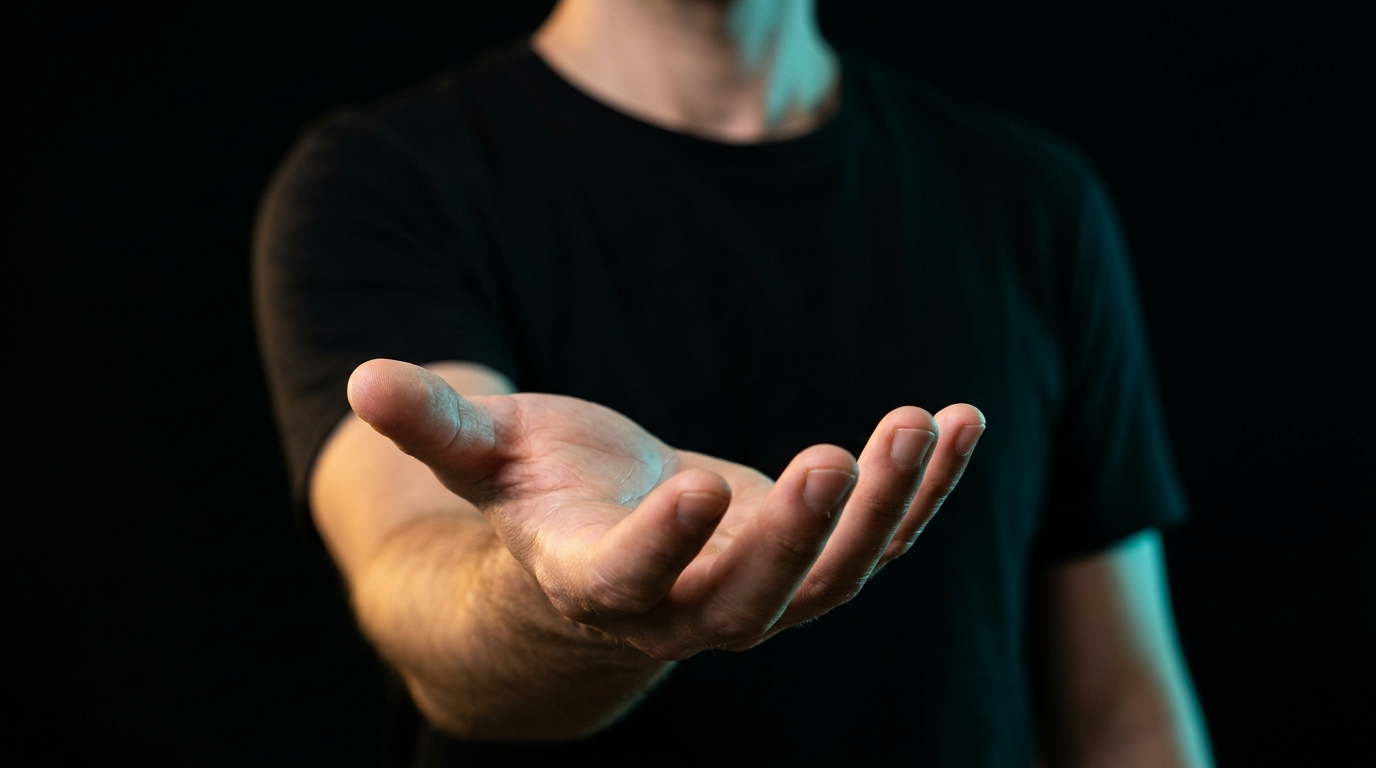
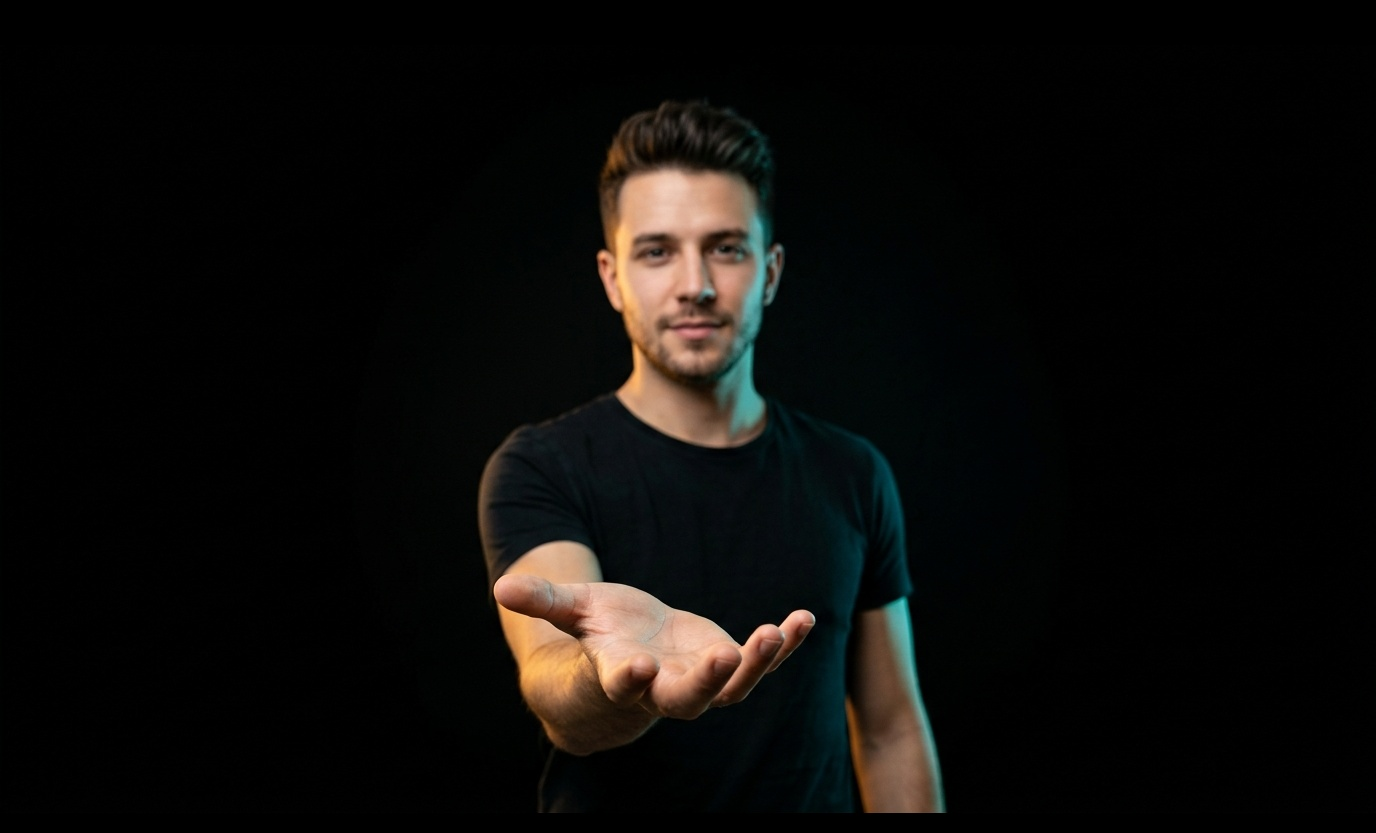
feat(contact): reduce floating glass card by 20% and reframe person to medium shot with full headroom

diff --git a/index.html b/index.html
@@ -82,7 +82,7 @@
   <link rel="preconnect" href="https://fonts.googleapis.com">
   <link rel="preconnect" href="https://fonts.gstatic.com" crossorigin>
   <link href="https://fonts.googleapis.com/css2?family=Geist:wght@300;400;500;600;700;800;900&family=Poppins:wght@700;800;900&family=Space+Grotesk:wght@700;800;900&display=swap" rel="stylesheet">
-  <link rel="stylesheet" href="style.css?v=5">
+  <link rel="stylesheet" href="style.css?v=6">
 </head>
 
 <body class="bg-slate-950 text-white selection:bg-violet-600 selection:text-white">
@@ -1422,16 +1422,16 @@
     </section>
 
     <!-- CONTACT SECTION -->
-    <section id="contact" class="relative overflow-hidden py-24 sm:py-32 bg-black min-h-[960px] flex items-center justify-center">
-      <!-- Cinematic 3D Scene Background -->
+    <section id="contact" class="relative overflow-hidden py-20 sm:py-28 bg-black min-h-[880px] flex items-center justify-center">
+      <!-- Cinematic 3D Scene Background (Medium shot: head to waist/hips) -->
       <div class="pointer-events-none absolute inset-0 z-0 overflow-hidden">
         <img src="contact-hand-bg.jpg" alt="Cinematic 3D hand holding floating glass interface"
-          class="w-full h-full object-cover object-bottom sm:object-center select-none opacity-90 sm:opacity-95" />
+          class="w-full h-full object-cover object-top select-none opacity-95 sm:opacity-100" />
         
         <!-- Pure black edge blending & vignette -->
-        <div class="absolute inset-0 bg-gradient-to-t from-black via-transparent to-black"></div>
+        <div class="absolute inset-0 bg-gradient-to-t from-black/80 via-transparent to-black/30"></div>
         <div class="absolute inset-0 bg-gradient-to-r from-black/85 via-transparent to-black/85"></div>
-        <div class="absolute inset-0 bg-[radial-gradient(ellipse_at_center,transparent_30%,rgba(0,0,0,0.85)_100%)]"></div>
+        <div class="absolute inset-0 bg-[radial-gradient(ellipse_at_center,transparent_35%,rgba(0,0,0,0.85)_100%)]"></div>
 
         <!-- Amber studio rim light atmosphere (Left) -->
         <div class="absolute -left-28 top-1/2 -translate-y-1/2 h-[450px] w-[450px] rounded-full bg-amber-500/15 blur-[140px]"></div>
@@ -1439,67 +1439,67 @@
         <div class="absolute -right-28 top-1/2 -translate-y-1/2 h-[500px] w-[500px] rounded-full bg-cyan-400/20 blur-[150px]"></div>
       </div>
 
-      <!-- Floating Glass Card Container -->
-      <div class="relative z-10 mx-auto max-w-3xl px-4 sm:px-6 w-full py-8">
+      <!-- Floating Glass Card Container (Compact: ~20% smaller) -->
+      <div class="relative z-10 mx-auto max-w-[620px] px-4 sm:px-6 w-full py-6">
         <!-- Ambient Contact Shadow right above the palm -->
-        <div class="floating-glass-shadow pointer-events-none absolute -bottom-7 left-1/2 -translate-x-1/2 h-14 w-3/4 rounded-full bg-black/90 blur-xl"></div>
+        <div class="floating-glass-shadow pointer-events-none absolute -bottom-6 left-1/2 -translate-x-1/2 h-12 w-3/4 rounded-full bg-black/90 blur-xl"></div>
 
         <!-- Floating Glass Card -->
         <div
-          class="floating-glass-card relative overflow-hidden rounded-[2.25rem] p-7 sm:p-12 text-center">
+          class="floating-glass-card relative overflow-hidden rounded-[2rem] p-5 sm:p-8 text-center">
           
           <!-- Glass corner specular lights -->
-          <div class="pointer-events-none absolute -top-24 -right-24 h-48 w-48 rounded-full bg-cyan-400/20 blur-2xl"></div>
-          <div class="pointer-events-none absolute -bottom-24 -left-24 h-48 w-48 rounded-full bg-amber-500/15 blur-2xl"></div>
+          <div class="pointer-events-none absolute -top-20 -right-20 h-40 w-40 rounded-full bg-cyan-400/20 blur-2xl"></div>
+          <div class="pointer-events-none absolute -bottom-20 -left-20 h-40 w-40 rounded-full bg-amber-500/15 blur-2xl"></div>
 
           <!-- Pill Badge -->
           <div
-            class="relative mb-4 inline-flex items-center gap-2 rounded-full border border-cyan-400/30 bg-cyan-400/10 px-4 py-1.5 text-xs font-bold tracking-widest text-cyan-300 backdrop-blur-md">
-            <span class="relative flex h-2 w-2">
+            class="relative mb-3 inline-flex items-center gap-1.5 rounded-full border border-cyan-400/30 bg-cyan-400/10 px-3 py-1 text-[11px] font-bold tracking-widest text-cyan-300 backdrop-blur-md">
+            <span class="relative flex h-1.5 w-1.5">
               <span
                 class="absolute inline-flex h-full w-full animate-ping rounded-full bg-cyan-400 opacity-75"></span>
-              <span class="relative inline-flex h-2 w-2 rounded-full bg-cyan-400"></span>
+              <span class="relative inline-flex h-1.5 w-1.5 rounded-full bg-cyan-400"></span>
             </span>
             LET'S CONNECT
           </div>
 
-          <h2 class="relative text-3xl sm:text-5xl font-black tracking-tight text-white md:text-6xl drop-shadow-sm">
+          <h2 class="relative text-2xl sm:text-4xl font-black tracking-tight text-white md:text-[2.6rem] leading-tight drop-shadow-sm">
             Have an opportunity?
           </h2>
-          <p class="relative mx-auto mt-4 max-w-xl text-base sm:text-lg text-slate-200 font-medium">
+          <p class="relative mx-auto mt-2.5 max-w-lg text-xs sm:text-sm text-slate-200 font-medium leading-relaxed">
             Let's connect and discuss how my skills in SEO, content marketing, and digital strategy can contribute to
             your team's growth.
           </p>
 
           <!-- Contact Form linked to Google Forms -->
-          <form id="contactForm" class="relative mt-8 mx-auto max-w-xl text-left space-y-4">
-            <div class="grid gap-4 sm:grid-cols-2">
+          <form id="contactForm" class="relative mt-5 mx-auto max-w-lg text-left space-y-3">
+            <div class="grid gap-3 sm:grid-cols-2">
               <div>
                 <label for="contact-name"
-                  class="block text-xs font-bold uppercase tracking-wider text-slate-200 mb-2">Your Name</label>
+                  class="block text-[11px] font-bold uppercase tracking-wider text-slate-200 mb-1.5">Your Name</label>
                 <input type="text" id="contact-name" name="entry.302768550" required placeholder="John Doe"
-                  class="w-full rounded-xl border border-white/20 bg-black/40 px-4 py-3.5 text-sm font-medium text-white placeholder-slate-400 backdrop-blur-md transition duration-200 focus:border-cyan-400 focus:bg-black/60 focus:outline-none focus:ring-2 focus:ring-cyan-400/30" />
+                  class="w-full rounded-lg border border-white/20 bg-black/40 px-3.5 py-2.5 text-xs sm:text-sm font-medium text-white placeholder-slate-400 backdrop-blur-md transition duration-200 focus:border-cyan-400 focus:bg-black/60 focus:outline-none focus:ring-2 focus:ring-cyan-400/30" />
               </div>
               <div>
                 <label for="contact-email"
-                  class="block text-xs font-bold uppercase tracking-wider text-slate-200 mb-2">Your Email</label>
+                  class="block text-[11px] font-bold uppercase tracking-wider text-slate-200 mb-1.5">Your Email</label>
                 <input type="email" id="contact-email" name="entry.362851093" required placeholder="john@example.com"
-                  class="w-full rounded-xl border border-white/20 bg-black/40 px-4 py-3.5 text-sm font-medium text-white placeholder-slate-400 backdrop-blur-md transition duration-200 focus:border-cyan-400 focus:bg-black/60 focus:outline-none focus:ring-2 focus:ring-cyan-400/30" />
+                  class="w-full rounded-lg border border-white/20 bg-black/40 px-3.5 py-2.5 text-xs sm:text-sm font-medium text-white placeholder-slate-400 backdrop-blur-md transition duration-200 focus:border-cyan-400 focus:bg-black/60 focus:outline-none focus:ring-2 focus:ring-cyan-400/30" />
               </div>
             </div>
 
             <div>
               <label for="contact-message"
-                class="block text-xs font-bold uppercase tracking-wider text-slate-200 mb-2">Message</label>
-              <textarea id="contact-message" name="entry.965497042" rows="4" required
+                class="block text-[11px] font-bold uppercase tracking-wider text-slate-200 mb-1.5">Message</label>
+              <textarea id="contact-message" name="entry.965497042" rows="3" required
                 placeholder="Tell me about your project or opportunity..."
-                class="w-full rounded-xl border border-white/20 bg-black/40 px-4 py-3.5 text-sm font-medium text-white placeholder-slate-400 backdrop-blur-md transition duration-200 focus:border-cyan-400 focus:bg-black/60 focus:outline-none focus:ring-2 focus:ring-cyan-400/30"></textarea>
+                class="w-full rounded-lg border border-white/20 bg-black/40 px-3.5 py-2.5 text-xs sm:text-sm font-medium text-white placeholder-slate-400 backdrop-blur-md transition duration-200 focus:border-cyan-400 focus:bg-black/60 focus:outline-none focus:ring-2 focus:ring-cyan-400/30"></textarea>
             </div>
 
             <button type="submit" id="contactSubmitBtn"
-              class="group w-full inline-flex items-center justify-center gap-2.5 rounded-xl border border-cyan-400/50 bg-gradient-to-r from-cyan-500/30 via-sky-500/30 to-blue-600/30 px-7 py-4 text-sm font-bold text-white shadow-[0_0_25px_rgba(6,182,212,0.35)] backdrop-blur-md transition-all duration-300 hover:-translate-y-0.5 hover:from-cyan-500/40 hover:to-blue-600/40 hover:shadow-[0_0_35px_rgba(6,182,212,0.55)] hover:border-cyan-300 cursor-pointer disabled:opacity-60 disabled:cursor-not-allowed">
+              class="group w-full inline-flex items-center justify-center gap-2 rounded-lg border border-cyan-400/50 bg-gradient-to-r from-cyan-500/30 via-sky-500/30 to-blue-600/30 px-6 py-3 text-xs sm:text-sm font-bold text-white shadow-[0_0_20px_rgba(6,182,212,0.3)] backdrop-blur-md transition-all duration-300 hover:-translate-y-0.5 hover:from-cyan-500/40 hover:to-blue-600/40 hover:shadow-[0_0_30px_rgba(6,182,212,0.5)] hover:border-cyan-300 cursor-pointer disabled:opacity-60 disabled:cursor-not-allowed">
               <span id="submitBtnText" class="tracking-wide">Send Message</span>
-              <svg id="submitIcon" class="h-4 w-4 text-cyan-300 transition-transform duration-300 group-hover:translate-x-1" fill="none" viewBox="0 0 24 24" stroke="currentColor" stroke-width="2.2">
+              <svg id="submitIcon" class="h-3.5 w-3.5 text-cyan-300 transition-transform duration-300 group-hover:translate-x-1" fill="none" viewBox="0 0 24 24" stroke="currentColor" stroke-width="2.2">
                 <path stroke-linecap="round" stroke-linejoin="round" d="M14 5l7 7m0 0l-7 7m7-7H3" />
               </svg>
             </button>
@@ -1507,54 +1507,53 @@
 
           <!-- Divider: Or reach out directly -->
           <div
-            class="relative my-7 flex items-center justify-center gap-4 text-xs font-semibold uppercase tracking-widest text-cyan-200/70">
-            <span class="h-px w-16 bg-gradient-to-r from-transparent to-cyan-400/40"></span>
+            class="relative my-5 flex items-center justify-center gap-3 text-[10px] sm:text-[11px] font-semibold uppercase tracking-widest text-cyan-200/70">
+            <span class="h-px w-12 bg-gradient-to-r from-transparent to-cyan-400/40"></span>
             <span>Or Connect Directly</span>
-            <span class="h-px w-16 bg-gradient-to-l from-transparent to-cyan-400/40"></span>
+            <span class="h-px w-12 bg-gradient-to-l from-transparent to-cyan-400/40"></span>
           </div>
 
           <!-- Contact Channels Grid -->
-          <div class="relative grid gap-3 sm:grid-cols-2 max-w-xl mx-auto text-left">
+          <div class="relative grid gap-2.5 sm:grid-cols-2 max-w-lg mx-auto text-left">
             <!-- Direct Email Action -->
             <a href="mailto:anshaad.s@gmail.com"
-              class="group flex items-center gap-3.5 rounded-xl border border-white/15 bg-black/40 p-3.5 backdrop-blur-md transition duration-200 hover:border-cyan-400/50 hover:bg-cyan-500/10">
+              class="group flex items-center gap-3 rounded-lg border border-white/15 bg-black/40 p-2.5 sm:p-3 backdrop-blur-md transition duration-200 hover:border-cyan-400/50 hover:bg-cyan-500/10">
               <div
-                class="flex h-10 w-10 shrink-0 items-center justify-center rounded-lg bg-cyan-500/20 text-cyan-300 border border-cyan-400/30 group-hover:bg-cyan-500 group-hover:text-black transition">
-                <svg class="h-5 w-5" fill="none" viewBox="0 0 24 24" stroke="currentColor">
+                class="flex h-8 w-8 shrink-0 items-center justify-center rounded-md bg-cyan-500/20 text-cyan-300 border border-cyan-400/30 group-hover:bg-cyan-500 group-hover:text-black transition">
+                <svg class="h-4 w-4" fill="none" viewBox="0 0 24 24" stroke="currentColor">
                   <path stroke-linecap="round" stroke-linejoin="round" stroke-width="2"
                     d="M3 8l7.89 5.26a2 2 0 002.22 0L21 8M5 19h14a2 2 0 002-2V7a2 2 0 00-2-2H5a2 2 0 00-2 2v10a2 2 0 002 2z" />
                 </svg>
               </div>
               <div class="overflow-hidden">
-                <span class="text-[11px] font-bold uppercase tracking-wider text-slate-300 block">Direct Email</span>
-                <span class="text-sm font-bold text-white truncate block">anshaad.s@gmail.com</span>
+                <span class="text-[10px] font-bold uppercase tracking-wider text-slate-300 block">Direct Email</span>
+                <span class="text-xs sm:text-sm font-bold text-white truncate block">anshaad.s@gmail.com</span>
               </div>
             </a>
 
             <!-- WhatsApp / Phone Action -->
             <a href="https://wa.me/918089946615" target="_blank" rel="noopener noreferrer"
-              class="group flex items-center gap-3.5 rounded-xl border border-white/15 bg-black/40 p-3.5 backdrop-blur-md transition duration-200 hover:border-emerald-400/50 hover:bg-emerald-500/10">
+              class="group flex items-center gap-3 rounded-lg border border-white/15 bg-black/40 p-2.5 sm:p-3 backdrop-blur-md transition duration-200 hover:border-emerald-400/50 hover:bg-emerald-500/10">
               <div
-                class="flex h-10 w-10 shrink-0 items-center justify-center rounded-lg bg-emerald-500/20 text-emerald-300 border border-emerald-400/30 group-hover:bg-emerald-500 group-hover:text-black transition">
-                <svg class="h-5 w-5" fill="none" viewBox="0 0 24 24" stroke="currentColor">
+                class="flex h-8 w-8 shrink-0 items-center justify-center rounded-md bg-emerald-500/20 text-emerald-300 border border-emerald-400/30 group-hover:bg-emerald-500 group-hover:text-black transition">
+                <svg class="h-4 w-4" fill="none" viewBox="0 0 24 24" stroke="currentColor">
                   <path stroke-linecap="round" stroke-linejoin="round" stroke-width="2"
                     d="M3 5a2 2 0 012-2h3.28a1 1 0 01.948.684l1.498 4.493a1 1 0 01-.502 1.21l-2.257 1.13a11.042 11.042 0 005.516 5.516l1.13-2.257a1 1 0 011.21-.502l4.493 1.498a1 1 0 01.684.949V19a2 2 0 01-2 2h-1C9.716 21 3 14.284 3 6V5z" />
                 </svg>
               </div>
               <div class="overflow-hidden">
-                <span class="text-[11px] font-bold uppercase tracking-wider text-slate-300 block">Phone /
-                  WhatsApp</span>
-                <span class="text-sm font-bold text-white truncate block">+91 8089946615</span>
+                <span class="text-[10px] font-bold uppercase tracking-wider text-slate-300 block">Phone / WhatsApp</span>
+                <span class="text-xs sm:text-sm font-bold text-white truncate block">+91 8089946615</span>
               </div>
             </a>
           </div>
 
           <!-- Bottom Secondary Actions (LinkedIn, Copy Email, View Resume) -->
-          <div class="relative mt-6 flex flex-wrap items-center justify-center gap-3">
+          <div class="relative mt-4 flex flex-wrap items-center justify-center gap-2">
             <!-- LinkedIn Connect -->
             <a href="https://www.linkedin.com/in/anshad-s-043919399/" target="_blank" rel="noopener noreferrer"
-              class="group inline-flex items-center gap-2 rounded-xl border border-white/15 bg-white/5 px-5 py-2.5 text-xs font-bold text-slate-200 backdrop-blur-md transition duration-200 hover:-translate-y-0.5 hover:border-cyan-400/50 hover:bg-white/10 hover:text-white">
-              <svg class="h-4 w-4 fill-current text-cyan-300" viewBox="0 0 24 24">
+              class="group inline-flex items-center gap-1.5 rounded-lg border border-white/15 bg-white/5 px-3.5 py-1.5 text-[11px] font-bold text-slate-200 backdrop-blur-md transition duration-200 hover:-translate-y-0.5 hover:border-cyan-400/50 hover:bg-white/10 hover:text-white">
+              <svg class="h-3.5 w-3.5 fill-current text-cyan-300" viewBox="0 0 24 24">
                 <path
                   d="M19 3a2 2 0 0 1 2 2v14a2 2 0 0 1-2 2H5a2 2 0 0 1-2-2V5a2 2 0 0 1 2-2h14m-.5 15.5v-5.3a3.26 3.26 0 0 0-3.26-3.26c-.85 0-1.84.52-2.28 1.3v-1.11h-2.79v8.37h2.79v-4.93c0-.77.62-1.4 1.39-1.4a1.4 1.4 0 0 1 1.4 1.4v4.93h2.75M6.46 10.9v8.37H9.2V10.9H6.46M7.83 6.45a1.64 1.64 0 1 0 0 3.28 1.64 1.64 0 0 0 0-3.28z" />
               </svg>
@@ -1563,8 +1562,8 @@
 
             <!-- Copy Email Button -->
             <button
-              class="copy-email-btn inline-flex items-center gap-2 rounded-xl border border-white/15 bg-white/5 px-5 py-2.5 text-xs font-bold text-slate-200 backdrop-blur-md transition duration-200 hover:-translate-y-0.5 hover:border-cyan-400/50 hover:bg-white/10 hover:text-white cursor-pointer">
-              <svg class="h-4 w-4 text-cyan-300" fill="none" viewBox="0 0 24 24" stroke="currentColor"
+              class="copy-email-btn inline-flex items-center gap-1.5 rounded-lg border border-white/15 bg-white/5 px-3.5 py-1.5 text-[11px] font-bold text-slate-200 backdrop-blur-md transition duration-200 hover:-translate-y-0.5 hover:border-cyan-400/50 hover:bg-white/10 hover:text-white cursor-pointer">
+              <svg class="h-3.5 w-3.5 text-cyan-300" fill="none" viewBox="0 0 24 24" stroke="currentColor"
                 stroke-width="2">
                 <path stroke-linecap="round" stroke-linejoin="round"
                   d="M8 16H6a2 2 0 01-2-2V6a2 2 0 012-2h8a2 2 0 012 2v2m-6 12h8a2 2 0 002-2v-8a2 2 0 00-2-2h-8a2 2 0 00-2 2v8a2 2 0 002 2z" />
@@ -1574,8 +1573,8 @@
 
             <!-- Quick View Resume Button -->
             <button
-              class="open-resume-btn inline-flex items-center gap-2 rounded-xl border border-white/15 bg-white/5 px-5 py-2.5 text-xs font-bold text-slate-200 backdrop-blur-md transition duration-200 hover:-translate-y-0.5 hover:border-cyan-400/50 hover:bg-white/10 hover:text-white cursor-pointer">
-              <svg xmlns="http://www.w3.org/2000/svg" class="h-4 w-4 text-cyan-300" fill="none" viewBox="0 0 24 24"
+              class="open-resume-btn inline-flex items-center gap-1.5 rounded-lg border border-white/15 bg-white/5 px-3.5 py-1.5 text-[11px] font-bold text-slate-200 backdrop-blur-md transition duration-200 hover:-translate-y-0.5 hover:border-cyan-400/50 hover:bg-white/10 hover:text-white cursor-pointer">
+              <svg xmlns="http://www.w3.org/2000/svg" class="h-3.5 w-3.5 text-cyan-300" fill="none" viewBox="0 0 24 24"
                 stroke="currentColor" stroke-width="2">
                 <path stroke-linecap="round" stroke-linejoin="round" d="M15 12a3 3 0 11-6 0 3 3 0 016 0z" />
                 <path stroke-linecap="round" stroke-linejoin="round"
